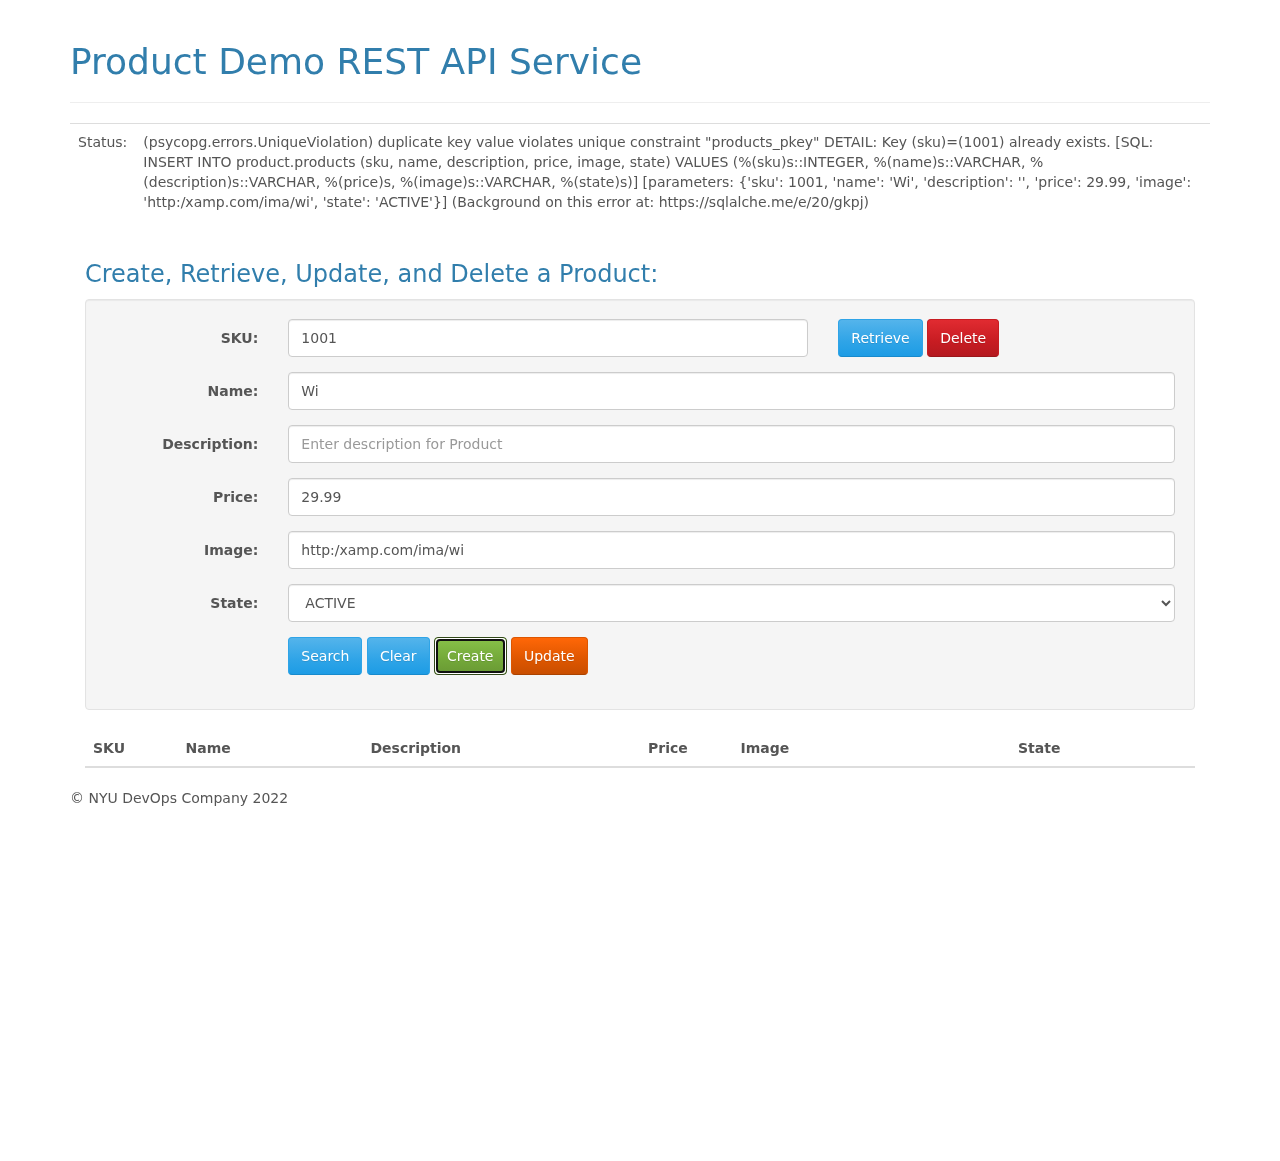
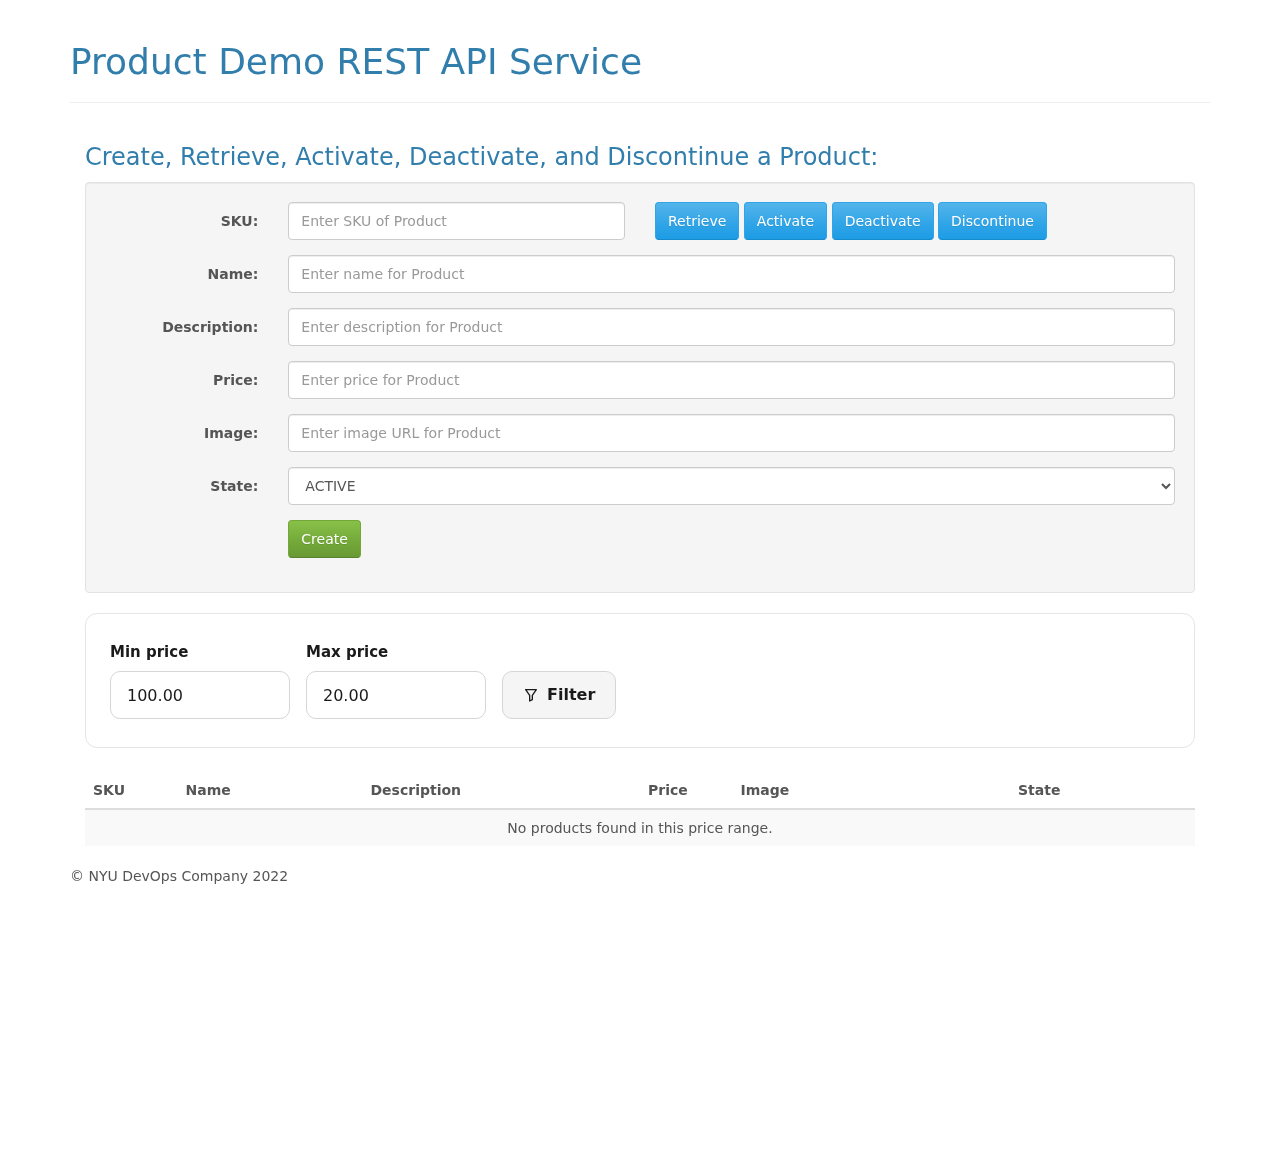
Build A UI To Read A Product

diff --git a/service/static/js/rest_api.js b/service/static/js/rest_api.js
@@ -75,6 +75,41 @@ $(function () {
     });
 
     // ****************************************
+    // Retrieve a Product
+    // ****************************************
+
+    $("#retrieve-btn").click(function () {
+
+        let sku = $("#product_sku").val();
+
+        $("#flash_message").empty();
+
+        if (!sku) {
+            flash_message("Please enter a SKU");
+            return;
+        }
+
+        let ajax = $.ajax({
+            type: "GET",
+            url: "/products/" + sku,
+            contentType: "application/json"
+        });
+
+        ajax.done(function(res) {
+            update_form_data(res);
+            flash_message("Success");
+        });
+
+        ajax.fail(function(res) {
+            if (res.status === 404) {
+                flash_message("Product " + sku + " does not exist");
+            } else {
+                flash_message(res.responseJSON.message);
+            }
+        });
+    });
+
+    // ****************************************
     // Activate a Product
     // ****************************************
 

diff --git a/service/static/index.html b/service/static/index.html
@@ -88,15 +88,16 @@
 
       <!-- FORM -->
       <div class="col-md-12" id="form_data">
-        <h3>Create, Activate, Deactivate, and Discontinue a Product:</h3>
+        <h3>Create, Retrieve, Activate, Deactivate, and Discontinue a Product:</h3>
         <div class="well">
           <div class="form-horizontal">
             <div class="form-group">
               <label class="control-label col-sm-2" for="product_sku">SKU:</label>
-              <div class="col-sm-6">
+              <div class="col-sm-4">
                 <input type="text" class="form-control" id="product_sku" placeholder="Enter SKU of Product">
               </div>
-              <div class="col-sm-4">
+              <div class="col-sm-6">
+                <button type="submit" class="btn btn-primary" id="retrieve-btn">Retrieve</button>
                 <button type="submit" class="btn btn-primary" id="activate-btn">Activate</button>
                 <button type="submit" class="btn btn-primary" id="deactivate-btn">Deactivate</button>
                 <button type="submit" class="btn btn-primary" id="discontinue-btn">Discontinue</button>

diff --git a/service/routes.py b/service/routes.py
@@ -138,7 +138,7 @@ def list_products():
     max_price = _parse_price_query_arg("price")
     min_price = _parse_price_query_arg("min_price")
 
-    if min_price is not None and max_price is not None and min_price > max_price:
+    if min_price is not None and max_price is not None and Decimal(min_price) > Decimal(max_price):
         abort(
             status.HTTP_400_BAD_REQUEST,
             "min_price cannot be greater than max price.",